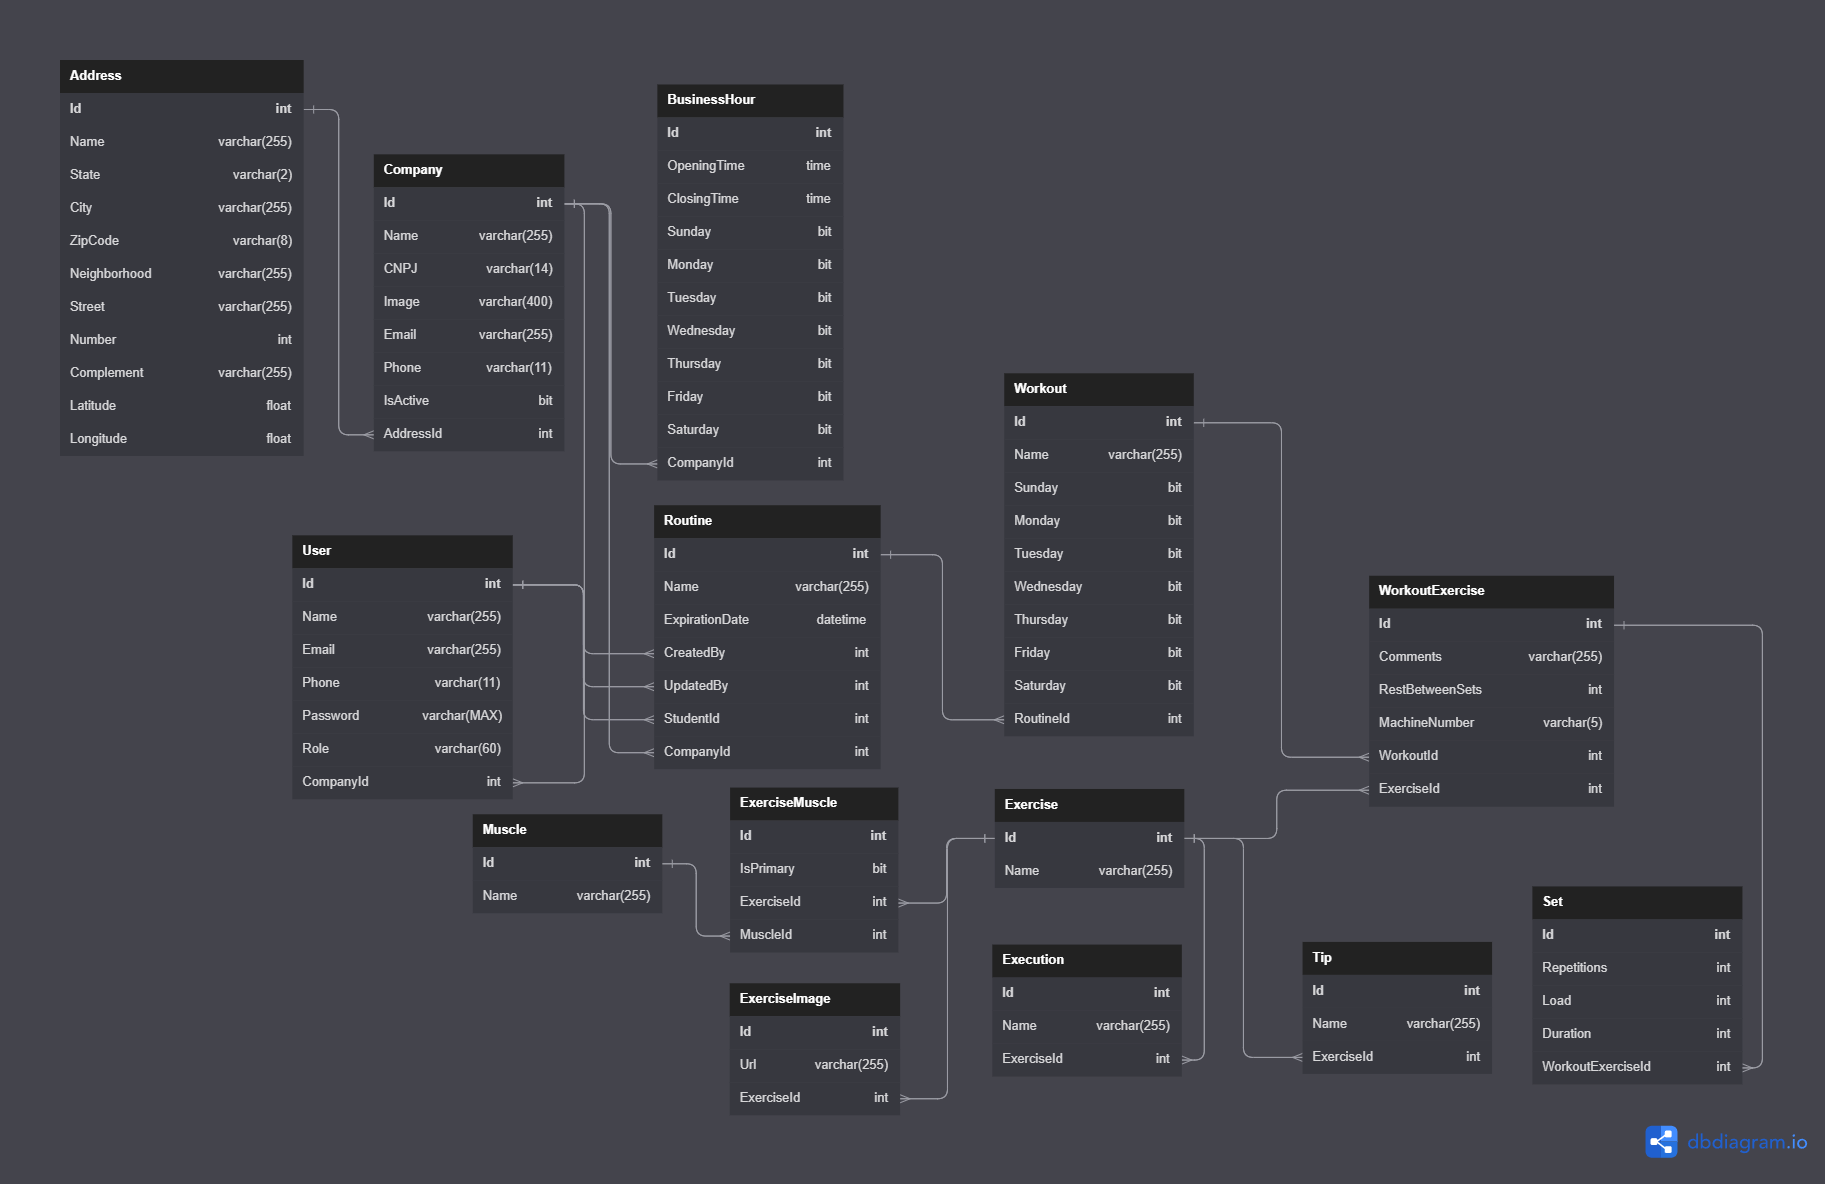
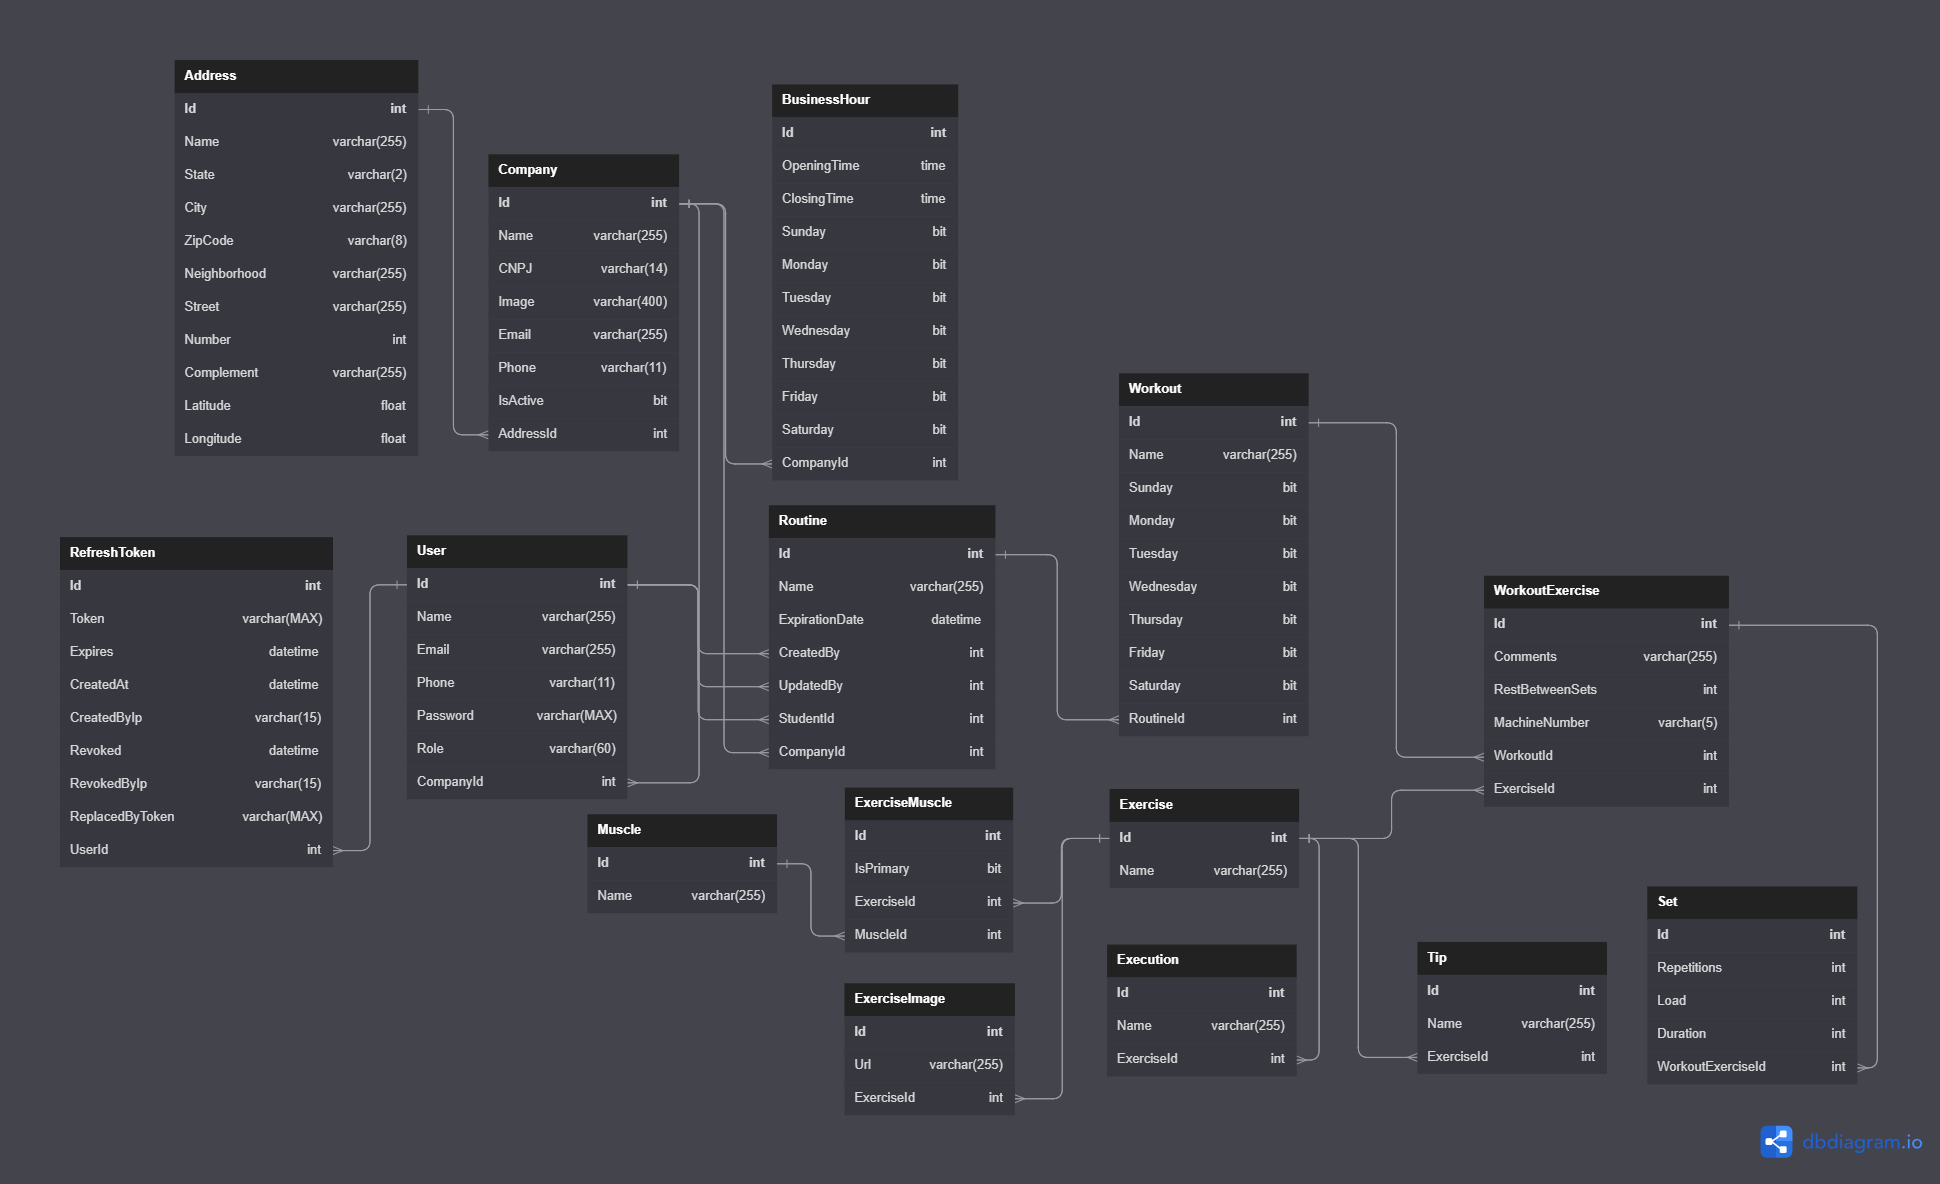
Creating method to create Refresh Token

diff --git a/Api/Gym.Application/Services/AuthService.cs b/Api/Gym.Application/Services/AuthService.cs
@@ -1,7 +1,8 @@
 using Gym.Application.Services.Repositories;
+using Gym.DataAccess.Request;
+using Gym.DataAccess.Response;
 using Gym.Domain.Entities;
 using Gym.Domain.Helpers;
-using Gym.Domain.Models;
 using Gym.Domain.Services;
 using Microsoft.Extensions.Options;
 using Microsoft.IdentityModel.Tokens;
@@ -79,56 +80,5 @@ namespace Gym.Application.Services
                 UserId = userId
             };
         }
-
-
-        //public AuthResponse RefreshToken(string token, string ipAddress)
-        //{
-        //    var user = _userRepository.Get(new UserFilters(null, token)).FirstOrDefault();
-
-        //    if (user == null) return null;
-
-        //    var refreshToken = user.RefreshTokens.SingleOrDefault(x => x.Token == token);
-
-        //    if (!refreshToken.IsActive) return null;
-
-        //    var newRefreshToken = GenerateRefreshToken(ipAddress, user.Id);
-        //    refreshToken.Revoked = DateTime.UtcNow;
-        //    refreshToken.RevokedByIp = ipAddress;
-        //    refreshToken.ReplacedByToken = newRefreshToken.Token;
-
-        //    using var ts = new TransactionScope();
-        //    _userRepository.UpdateRefreshToken(refreshToken);
-
-        //    user.RefreshTokens.Add(newRefreshToken);
-        //    _userRepository.CreateRefreshToken(newRefreshToken);
-        //    ts.Complete();
-
-
-        //    var jwtToken = GenerateToken(user);
-
-        //    return new AuthenticateResponse(user, jwtToken, newRefreshToken.Token);
-        //}
-
-        //public bool RevokeToken(string token, string ipAddress)
-        //{
-        //    var user = _userRepository.Get(new UserFilters(null, token)).FirstOrDefault();
-
-        //    if (user == null) return false;
-
-        //    var refreshToken = user.RefreshTokens.Single(x => x.Token == token);
-
-        //    if (!refreshToken.IsActive) return false;
-
-        //    refreshToken.Revoked = DateTime.UtcNow;
-        //    refreshToken.RevokedByIp = ipAddress;
-        //    _userRepository.UpdateRefreshToken(refreshToken);
-
-        //    return true;
-        //}
-
-
-      
-
-       
     }
 }

diff --git a/Api/Gym.Infrastructure/Persistence/ApplicationDbContext.cs b/Api/Gym.Infrastructure/Persistence/ApplicationDbContext.cs
@@ -20,6 +20,7 @@ namespace Gym.Infrastructure.Persistence
         public virtual DbSet<ExerciseMuscle> ExerciseMuscles { get; set; } = null!;
         public virtual DbSet<Muscle> Muscles { get; set; } = null!;
         public virtual DbSet<Routine> Routines { get; set; } = null!;
+        public virtual DbSet<RefreshToken> RefreshTokens { get; set; } = null!;
         public virtual DbSet<Set> Sets { get; set; } = null!;
         public virtual DbSet<Tip> Tips { get; set; } = null!;
         public virtual DbSet<User> Users { get; set; } = null!;
@@ -219,6 +220,34 @@ namespace Gym.Infrastructure.Persistence
                     .HasForeignKey(d => d.UpdatedBy)
                     .OnDelete(DeleteBehavior.ClientSetNull)
                     .HasConstraintName("FK__Routine__Updated__534D60F1");
+            });
+
+            modelBuilder.Entity<RefreshToken>(entity =>
+            {
+                entity.ToTable("RefreshToken");
+
+                entity.Property(e => e.CreatedAt).HasColumnType("datetime");
+
+                entity.Property(e => e.CreatedByIp)
+                    .HasMaxLength(15)
+                    .IsUnicode(false);
+
+                entity.Property(e => e.Expires).HasColumnType("datetime");
+
+                entity.Property(e => e.ReplacedByToken).IsUnicode(false);
+
+                entity.Property(e => e.Revoked).HasColumnType("datetime");
+
+                entity.Property(e => e.RevokedByIp)
+                    .HasMaxLength(15)
+                    .IsUnicode(false);
+
+                entity.Property(e => e.Token).IsUnicode(false);
+
+                entity.HasOne(d => d.User)
+                    .WithMany(p => p.RefreshTokens)
+                    .HasForeignKey(d => d.UserId)
+                    .HasConstraintName("FK__RefreshTo__UserI__6FE99F9F");
             });
 
             modelBuilder.Entity<Set>(entity =>

diff --git a/Api/Gym.Application/Common/Interfaces/IApplicationDbContext.cs b/Api/Gym.Application/Common/Interfaces/IApplicationDbContext.cs
@@ -5,20 +5,21 @@ namespace Gym.Infrastructure.Interfaces
 {
     public interface IApplicationDbContext
     {
-       DbSet<Address> Addresses { get; set; }
-       DbSet<BusinessHour> BusinessHours { get; set; }
-       DbSet<Company> Companies { get; set; }
-       DbSet<Execution> Executions { get; set; }
-       DbSet<Exercise> Exercises { get; set; }
-       DbSet<ExerciseImage> ExerciseImages { get; set; }
-       DbSet<ExerciseMuscle> ExerciseMuscles { get; set; }
-       DbSet<Muscle> Muscles { get; set; }
-       DbSet<Routine> Routines { get; set; }
-       DbSet<Set> Sets { get; set; }
-       DbSet<Tip> Tips { get; set; }
-       DbSet<User> Users { get; set; }
-       DbSet<Workout> Workouts { get; set; }
-       DbSet<WorkoutExercise> WorkoutExercises { get; set; }
+        DbSet<Address> Addresses { get; set; }
+        DbSet<BusinessHour> BusinessHours { get; set; }
+        DbSet<Company> Companies { get; set; }
+        DbSet<Execution> Executions { get; set; }
+        DbSet<Exercise> Exercises { get; set; }
+        DbSet<ExerciseImage> ExerciseImages { get; set; }
+        DbSet<ExerciseMuscle> ExerciseMuscles { get; set; }
+        DbSet<Muscle> Muscles { get; set; }
+        DbSet<Routine> Routines { get; set; }
+        DbSet<RefreshToken> RefreshTokens { get; set; }
+        DbSet<Set> Sets { get; set; }
+        DbSet<Tip> Tips { get; set; }
+        DbSet<User> Users { get; set; }
+        DbSet<Workout> Workouts { get; set; }
+        DbSet<WorkoutExercise> WorkoutExercises { get; set; }
 
         int SaveChanges();
         Task<int> SaveChangesAsync();

diff --git a/Api/Gym.Domain/Entities/RefreshToken.cs b/Api/Gym.Domain/Entities/RefreshToken.cs
@@ -1,17 +1,20 @@
-namespace Gym.Domain.Models
+namespace Gym.Domain.Entities
 {
     public class RefreshToken
     {
         public int Id { get; set; }
-        public string Token { get; set; }
+        public string Token { get; set; } = null!;
         public DateTime Expires { get; set; }
         public bool IsExpired => DateTime.UtcNow >= Expires;
         public DateTime CreatedAt { get; set; }
-        public string CreatedByIp { get; set; }
+        public string CreatedByIp { get; set; } = null!;
         public DateTime? Revoked { get; set; }
-        public string RevokedByIp { get; set; }
-        public string ReplacedByToken { get; set; }
+        public string RevokedByIp { get; set; } = null!;
+        public string ReplacedByToken { get; set; } = null!;
         public bool IsActive => Revoked == null && !IsExpired;
         public int UserId { get; set; }
+
+        public virtual User User { get; set; } = null!;
+
     }
 }

diff --git a/Api/Gym.Domain/Entities/User.cs b/Api/Gym.Domain/Entities/User.cs
@@ -1,7 +1,4 @@
-using System;
-using System.Collections.Generic;
-
-namespace Gym.Domain.Entities
+namespace Gym.Domain.Entities
 {
     public partial class User
     {
@@ -21,6 +18,7 @@ namespace Gym.Domain.Entities
         public int? CompanyId { get; set; }
 
         public virtual Company? Company { get; set; }
+        public virtual ICollection<RefreshToken> RefreshTokens { get; set; }
         public virtual ICollection<Routine> RoutineCreatedByNavigations { get; set; }
         public virtual ICollection<Routine> RoutineStudents { get; set; }
         public virtual ICollection<Routine> RoutineUpdatedByNavigations { get; set; }

diff --git a/Api/Gym.Infrastructure/Repositories/AuthRepository.cs b/Api/Gym.Infrastructure/Repositories/AuthRepository.cs
@@ -1,6 +1,5 @@
 using Gym.Application.Services.Repositories;
 using Gym.Domain.Entities;
-using Gym.Domain.Models;
 using Gym.Infrastructure.Interfaces;
 
 namespace Gym.Infrastructure.Repositories
@@ -26,12 +25,8 @@ namespace Gym.Infrastructure.Repositories
 
         public void CreateRefreshToken(RefreshToken model)
         {
-            throw new NotImplementedException();
-        }
-
-        public void UpdateRefreshToken(RefreshToken model)
-        {
-            throw new NotImplementedException();
+            _applicationDbContext.RefreshTokens.Add(model);
+            _applicationDbContext.SaveChanges();
         }
     }
 }

diff --git a/Api/Gym.Application/Repositories/IAuthRepository.cs b/Api/Gym.Application/Repositories/IAuthRepository.cs
@@ -1,5 +1,4 @@
 using Gym.Domain.Entities;
-using Gym.Domain.Models;
 
 namespace Gym.Application.Services.Repositories
 {
@@ -7,6 +6,5 @@ namespace Gym.Application.Services.Repositories
     {
         public User? Get(string email);
         void CreateRefreshToken(RefreshToken model);
-        void UpdateRefreshToken(RefreshToken model);
     }
 }

diff --git a/Api/Gym.DataAccess/Request/AuthRequest.cs b/Api/Gym.DataAccess/Request/AuthRequest.cs
@@ -1,6 +1,6 @@
 using System.ComponentModel.DataAnnotations;
 
-namespace Gym.Domain.Models
+namespace Gym.DataAccess.Request
 {
     public class AuthRequest
     {

diff --git a/Api/Gym.Domain/Services/IAuthService.cs b/Api/Gym.Domain/Services/IAuthService.cs
@@ -1,4 +1,5 @@
-using Gym.Domain.Models;
+using Gym.DataAccess.Request;
+using Gym.DataAccess.Response;
 
 namespace Gym.Domain.Services
 {

diff --git a/Api/Gym/Controllers/AuthController.cs b/Api/Gym/Controllers/AuthController.cs
@@ -1,4 +1,4 @@
-using Gym.Domain.Models;
+using Gym.DataAccess.Request;
 using Gym.Domain.Services;
 using Microsoft.AspNetCore.Mvc;
 

diff --git a/Api/Gym.DataAccess/Response/AuthResponse.cs b/Api/Gym.DataAccess/Response/AuthResponse.cs
@@ -1,4 +1,4 @@
-namespace Gym.Domain.Models
+namespace Gym.DataAccess.Response
 {
     public class AuthResponse
     {
